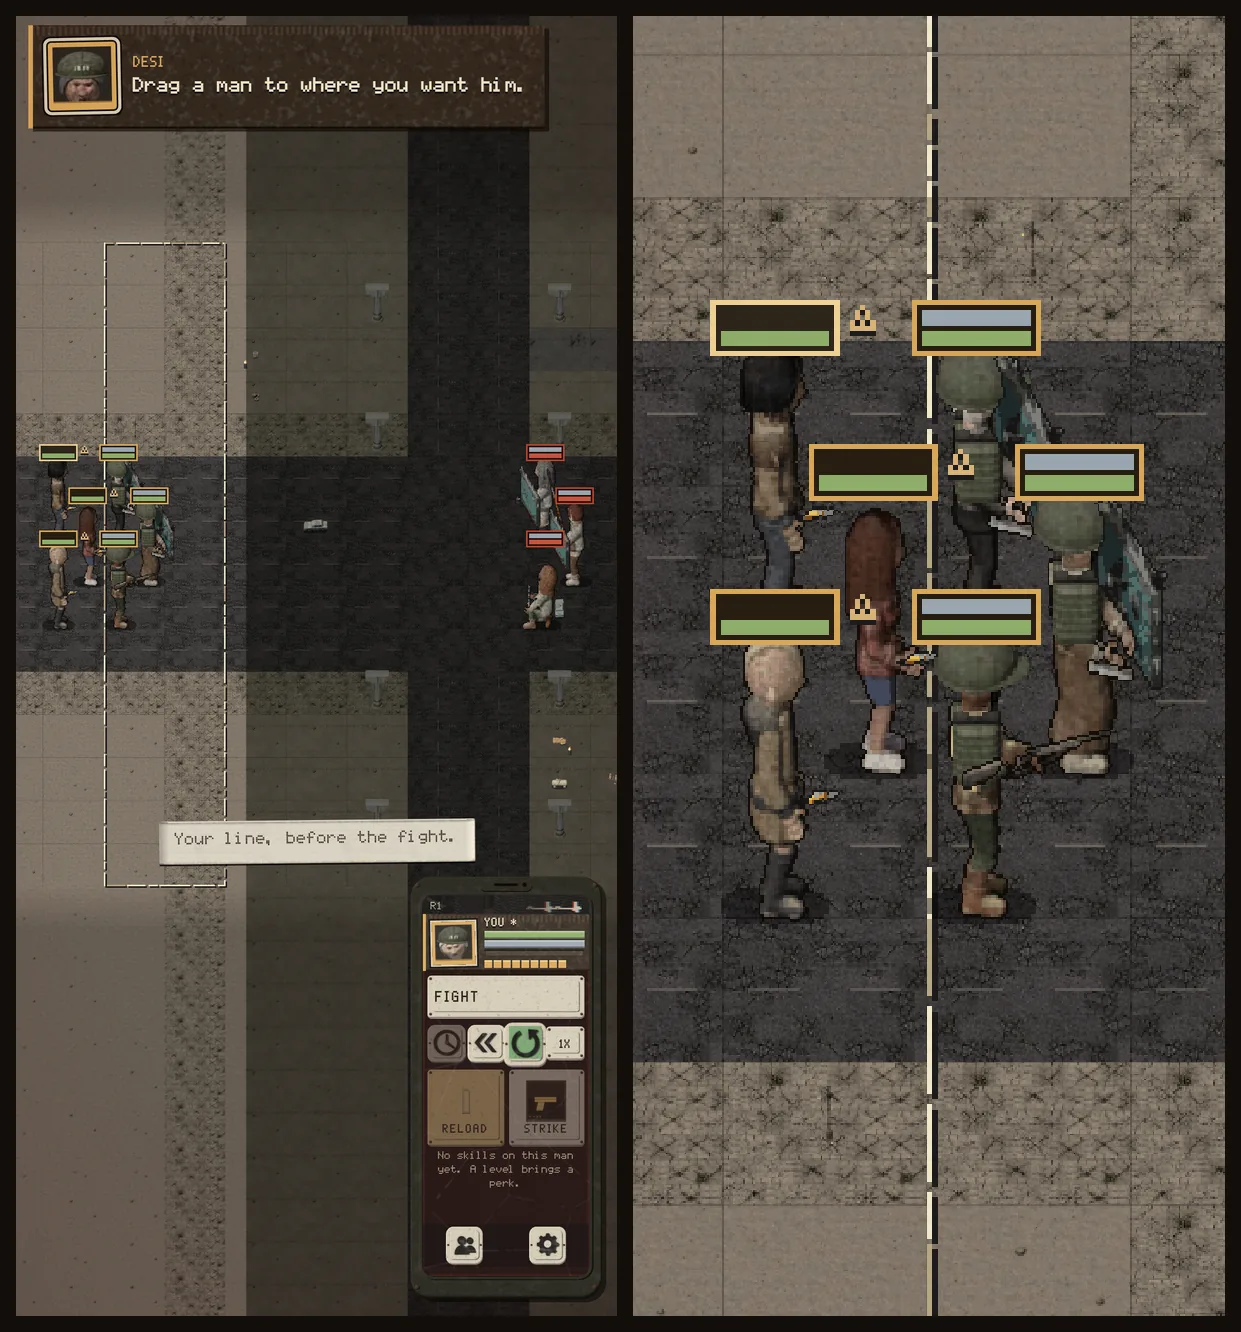
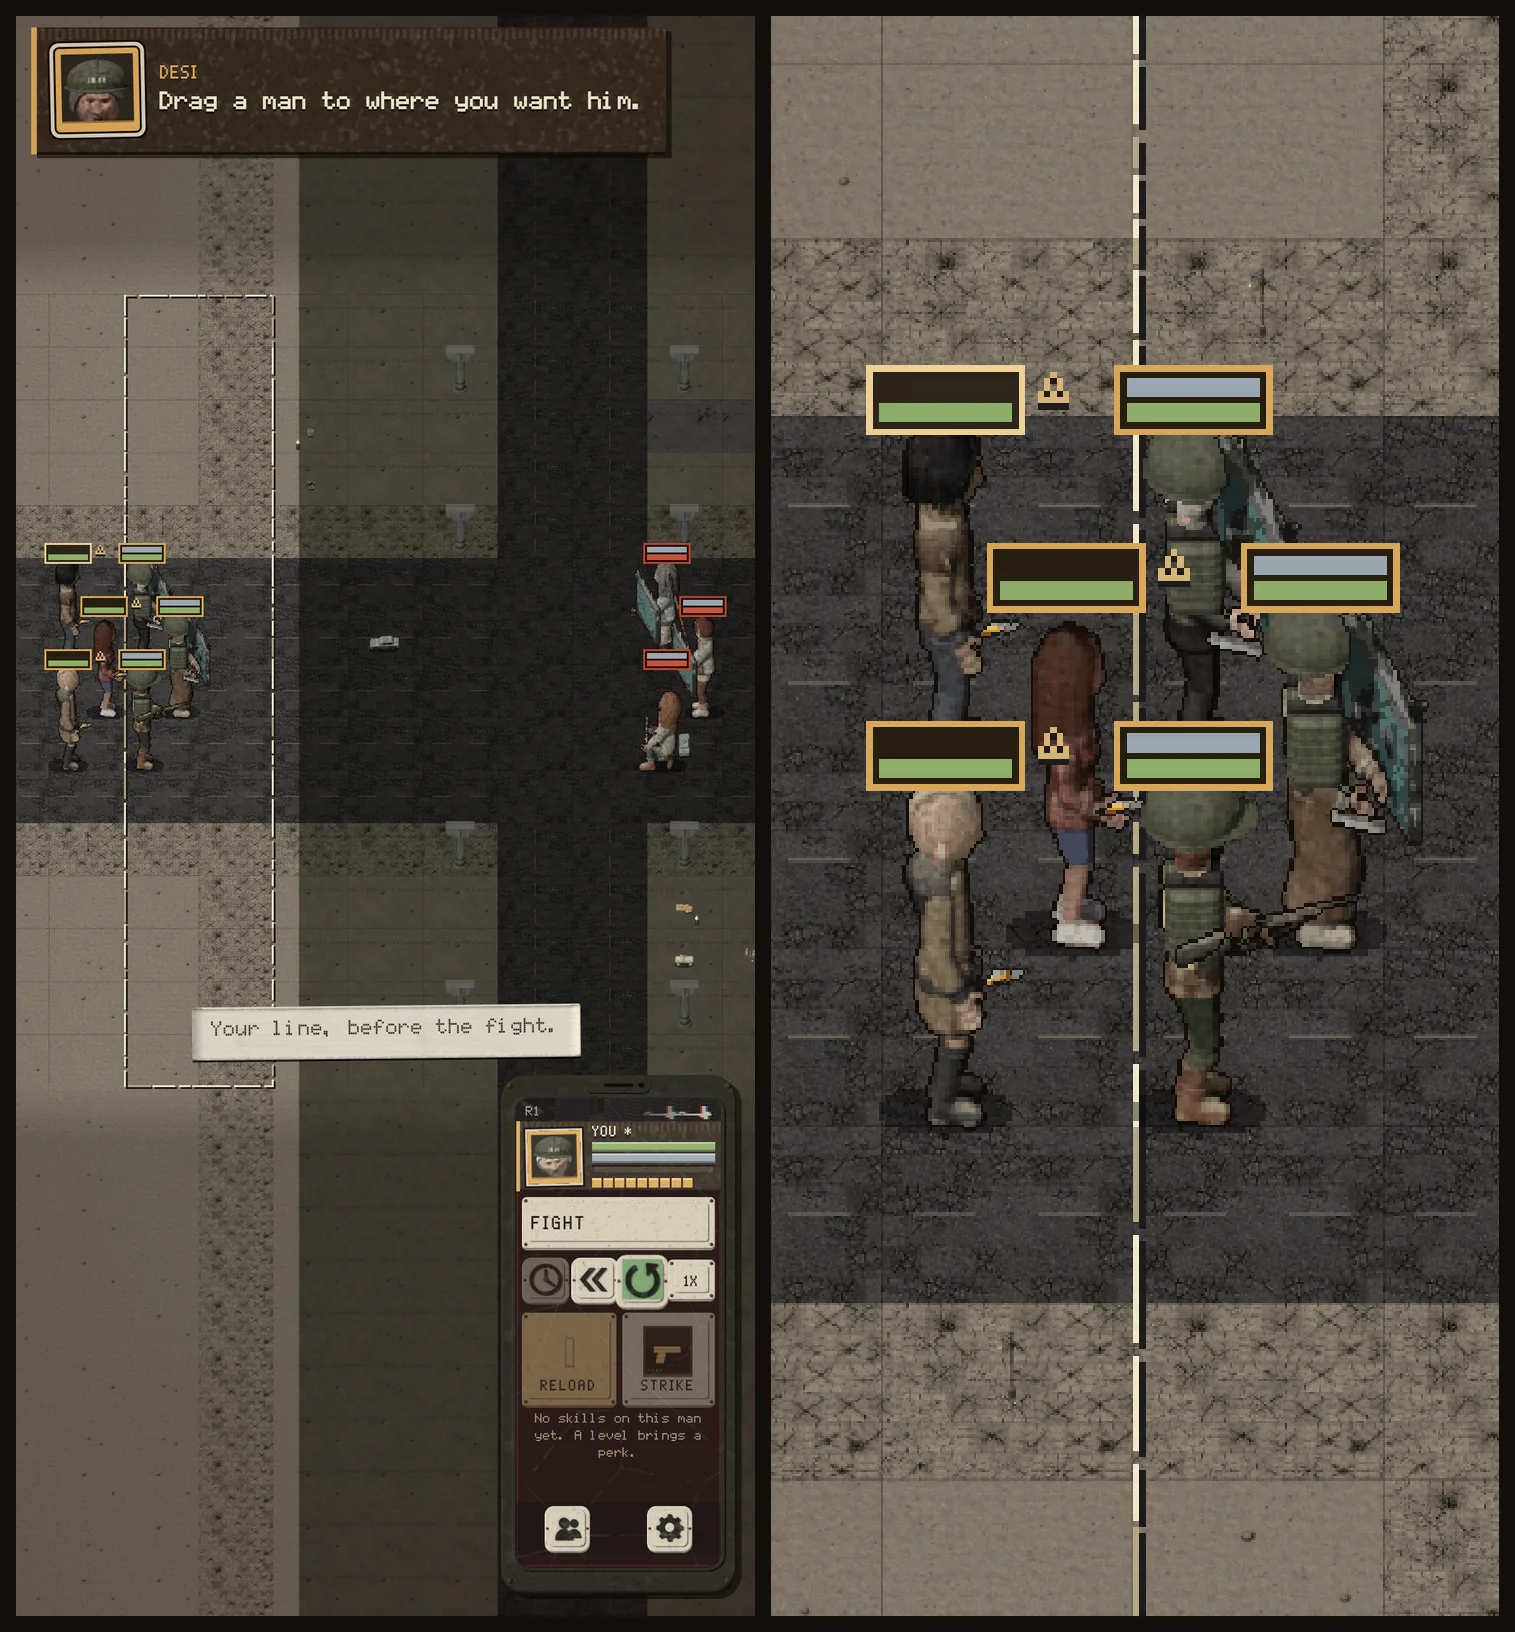
STAFF: the VOTE card staff-the-staff-fight-too-11-21 (STAND-IN) names 06742cf79 (BUILD 11/21zb THE STAFF FIGHT TOO); the handoff's sha; the card's picture taller (a finger always has room to drag it)
Claude-Session: https://claude.ai/code/session_01GKDyusaqn8ZYZE3oZaS5KF

diff --git a/tools/bohemia_staff_the_card_picture.py b/tools/bohemia_staff_the_card_picture.py
@@ -19,7 +19,7 @@ def main(js, out):
     k = W / vw                                   # the screenshot's pixels a point (3 on his phone)
     pts = [g for g in up.get('onGlass', []) if g.get('staff') and g.get('px') is not None]
     allp = [g for g in up.get('onGlass', []) if g.get('px') is not None]
-    left_h = 1300
+    left_h = 1600   # taller than any phone glass, so a finger always has room to drag it (the VOTE tab gate drags the top card)
     left = im.resize((round(W * left_h / H), left_h), Image.LANCZOS)
     if pts:
         xs = [g['px'] for g in allp]; ys = [g['py'] for g in allp]

diff --git a/handoffs/STAFF.md b/handoffs/STAFF.md
@@ -1,5 +1,5 @@
 STAFF (staff-01gkdyus): the camp's people in the fight, a new lane opened by the coordinator for VAMILY rule 468, ask row 667; written only by
-this lane. 11/21 LATEST -- BUILD 11/21zb - THE STAFF FIGHT TOO (SHIPSHA), BUILT, NOT YET SEEN (rules 468, 461 as amended 11/21, 441, 454(a), 465, 467; ask row 667).
+this lane. 11/21 LATEST -- BUILD 11/21zb - THE STAFF FIGHT TOO (06742cf79), BUILT, NOT YET SEEN (rules 468, 461 as amended 11/21, 441, 454(a), 465, 467; ask row 667).
 Record: records/BOHEMIA_STAFF_THE_STAFF_FIGHT_TOO_11_21_26.md. VOTE staff-the-staff-fight-too-11-21 (stand_in). The research: records/BOHEMIA_RESEARCH_THE_STAFF_FIGHT_TOO_11_21_26.md.
 This lane schedules nothing and calls nothing that waits for a person (461(c) amended). No line rewritten (465): the words added are
 the fewest, draft (the hall's 'Stands in your fights. One of your 12.' and 'No room: your company is N of 20.', the crew title's 'N CAMP').
